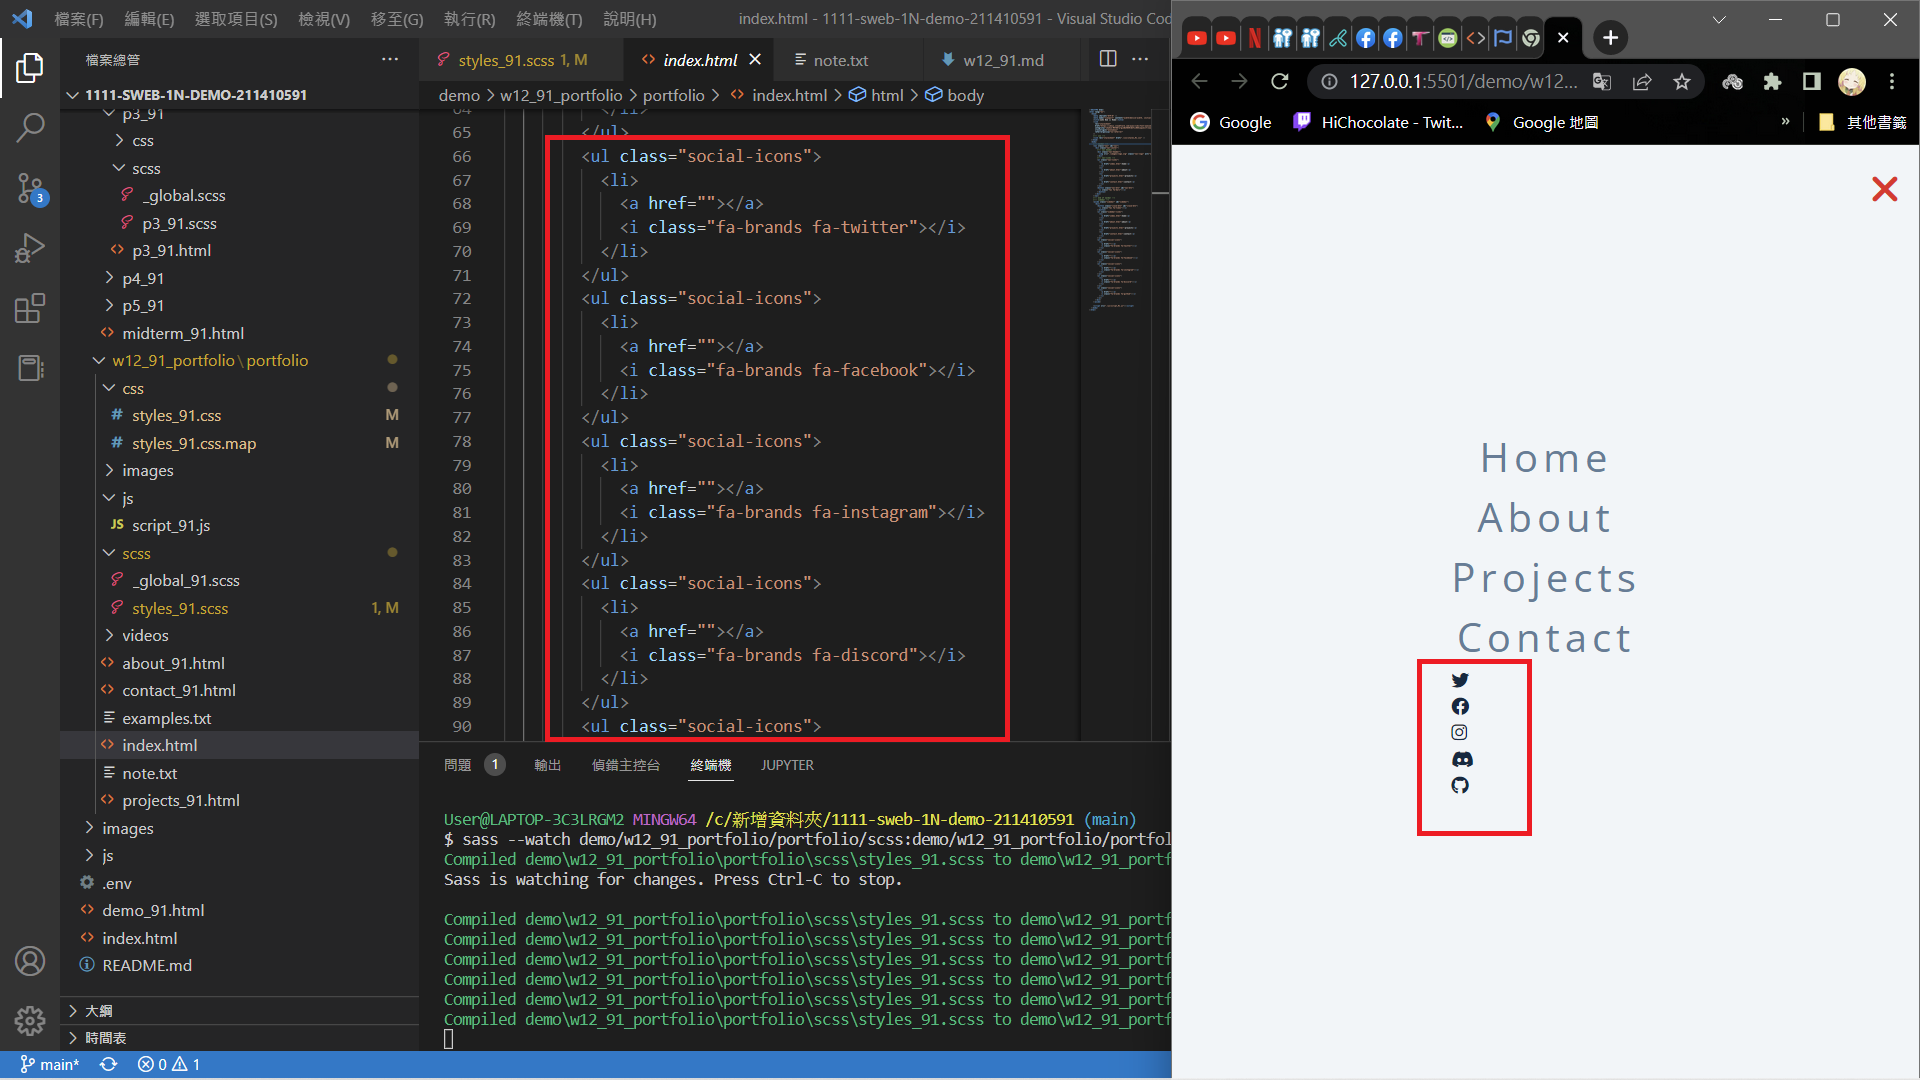
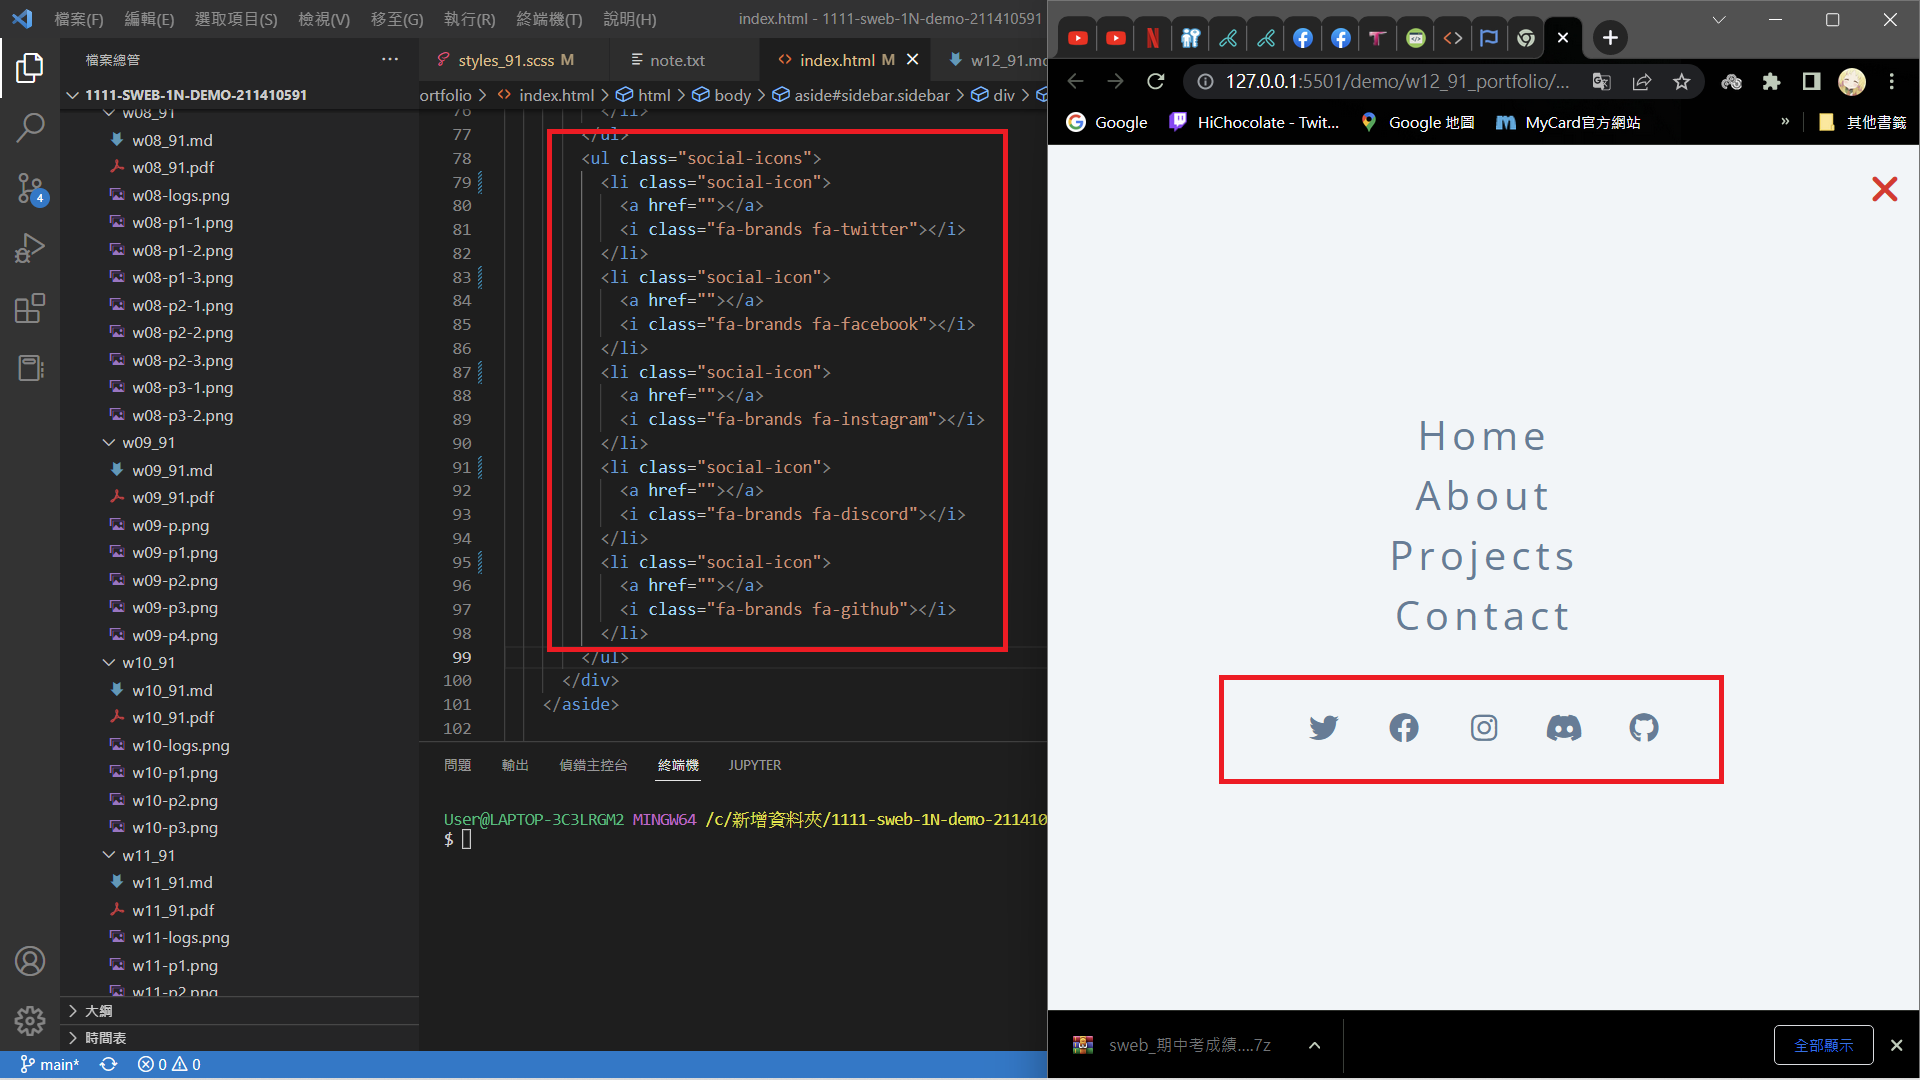
W12-P4: 完成 Hero HTML

diff --git a/demo/w12_91_portfolio/portfolio/index.html b/demo/w12_91_portfolio/portfolio/index.html
@@ -64,31 +64,23 @@
           </li>
         </ul>
         <ul class="social-icons">
-          <li>
+          <li class="social-icon">
             <a href=""></a>
             <i class="fa-brands fa-twitter"></i>
           </li>
-        </ul>
-        <ul class="social-icons">
-          <li>
+          <li class="social-icon">
             <a href=""></a>
             <i class="fa-brands fa-facebook"></i>
           </li>
-        </ul>
-        <ul class="social-icons">
-          <li>
+          <li class="social-icon">
             <a href=""></a>
             <i class="fa-brands fa-instagram"></i>
           </li>
-        </ul>
-        <ul class="social-icons">
-          <li>
+          <li class="social-icon">
             <a href=""></a>
             <i class="fa-brands fa-discord"></i>
           </li>
-        </ul>
-        <ul class="social-icons">
-          <li>
+          <li class="social-icon">
             <a href=""></a>
             <i class="fa-brands fa-github"></i>
           </li>
@@ -96,6 +88,46 @@
       </div>
     </aside>
 
+    <!-- header-->
+    <header class="hero">
+      <div class="sevtion-center hero-center">
+        <article class="hero-info">
+          <div class="underline"></div>
+          <h1>
+            i'm John
+          </h1>
+          <h4>
+            Free lance web & mobile II/UX Designer
+          </h4>
+          <a href="" class="btn hero-btn">hire me</a>
+          <ul class="social-icons hero-icons">
+            <li class="social-icon">
+              <a href=""></a>
+              <i class="fa-brands fa-twitter"></i>
+            </li>
+            <li class="social-icon">
+              <a href=""></a>
+              <i class="fa-brands fa-facebook"></i>
+            </li>
+            <li class="social-icon">
+              <a href=""></a>
+              <i class="fa-brands fa-instagram"></i>
+            </li>
+            <li class="social-icon">
+              <a href=""></a>
+              <i class="fa-brands fa-discord"></i>
+            </li>
+            <li class="social-icon">
+              <a href=""></a>
+              <i class="fa-brands fa-github"></i>
+            </li>
+          </ul>
+        </article>
+        <article class="hero-img">
+          <img src="./images/about-img.jpeg" alt="about img" class="hero-photo">
+        </article>
+      </div>
+    </header>
     <script src="./js/script_91.js"></script>
   </body>
 </html>

diff --git a/demo/w12_91_portfolio/portfolio/css/styles_91.css b/demo/w12_91_portfolio/portfolio/css/styles_91.css
@@ -265,6 +265,22 @@ sidebar
 .sidebar-links a:hover {
   color: var(--clr-primary-5);
 }
+.sidebar .social-icons {
+  display: grid;
+  margin-top: 3rem;
+  width: 20rem;
+  grid-template-columns: repeat(5, 1fr);
+  justify-items: center;
+}
+.sidebar .social-icon {
+  font-size: 1.5rem;
+  color: var(--clr-grey-5);
+  transition: var(--transition);
+}
+.sidebar .social-icon:hover {
+  color: var(--clr-grey-5);
+}
+
 .show-sidebar {
   transform: translateX(0);
 }

diff --git a/demo/w12_91_portfolio/portfolio/scss/styles_91.scss b/demo/w12_91_portfolio/portfolio/scss/styles_91.scss
@@ -116,7 +116,19 @@ sidebar
     }
 
     .social-icons {
-        
+        display: grid;
+        margin-top: 3rem;
+        width: 20rem;
+        grid-template-columns: repeat(5,1fr);
+        justify-items: center;
+    }
+    .social-icon {
+        font-size: 1.5rem;
+        color: var(--clr-grey-5);
+        transition: var(--transition);
+    }
+    .social-icon:hover {
+        color: var(--clr-grey-5);
     }
 }
 

diff --git a/demo/md/w12_91/w12_91.md b/demo/md/w12_91/w12_91.md
@@ -10,3 +10,9 @@
 
 ![](w12-p3-1.png)
 ![](w12-p3-2.png)
+
+### W12-P4: 完成 Hero HTML
+![](w12-p4.png)
+
+### W12-P5: git log
+![](w12-p5.png)
